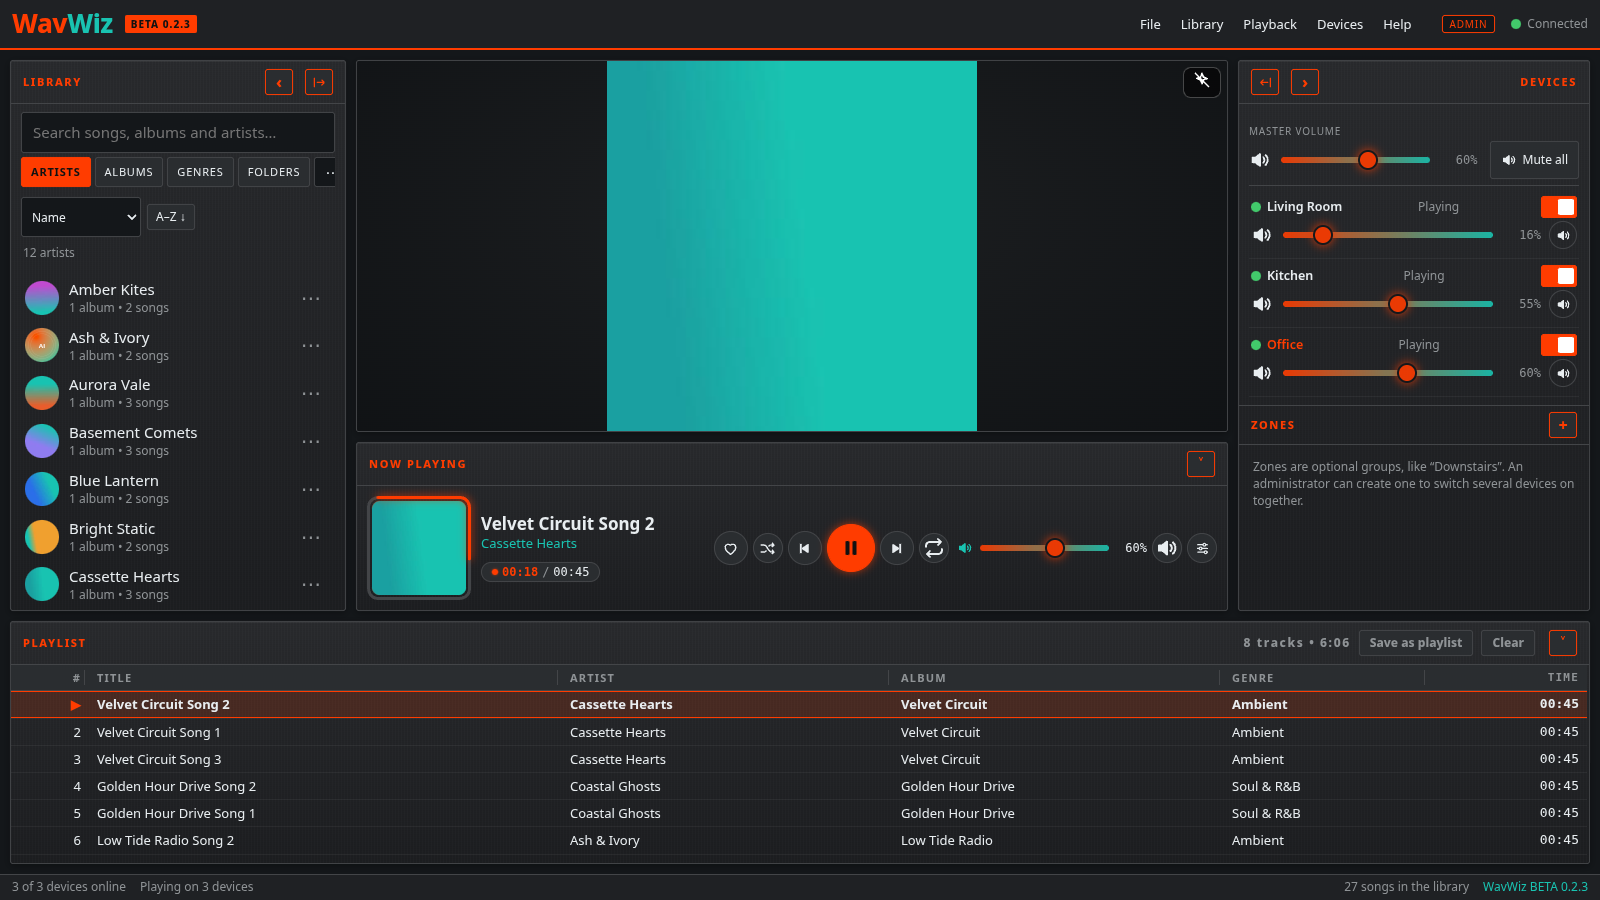
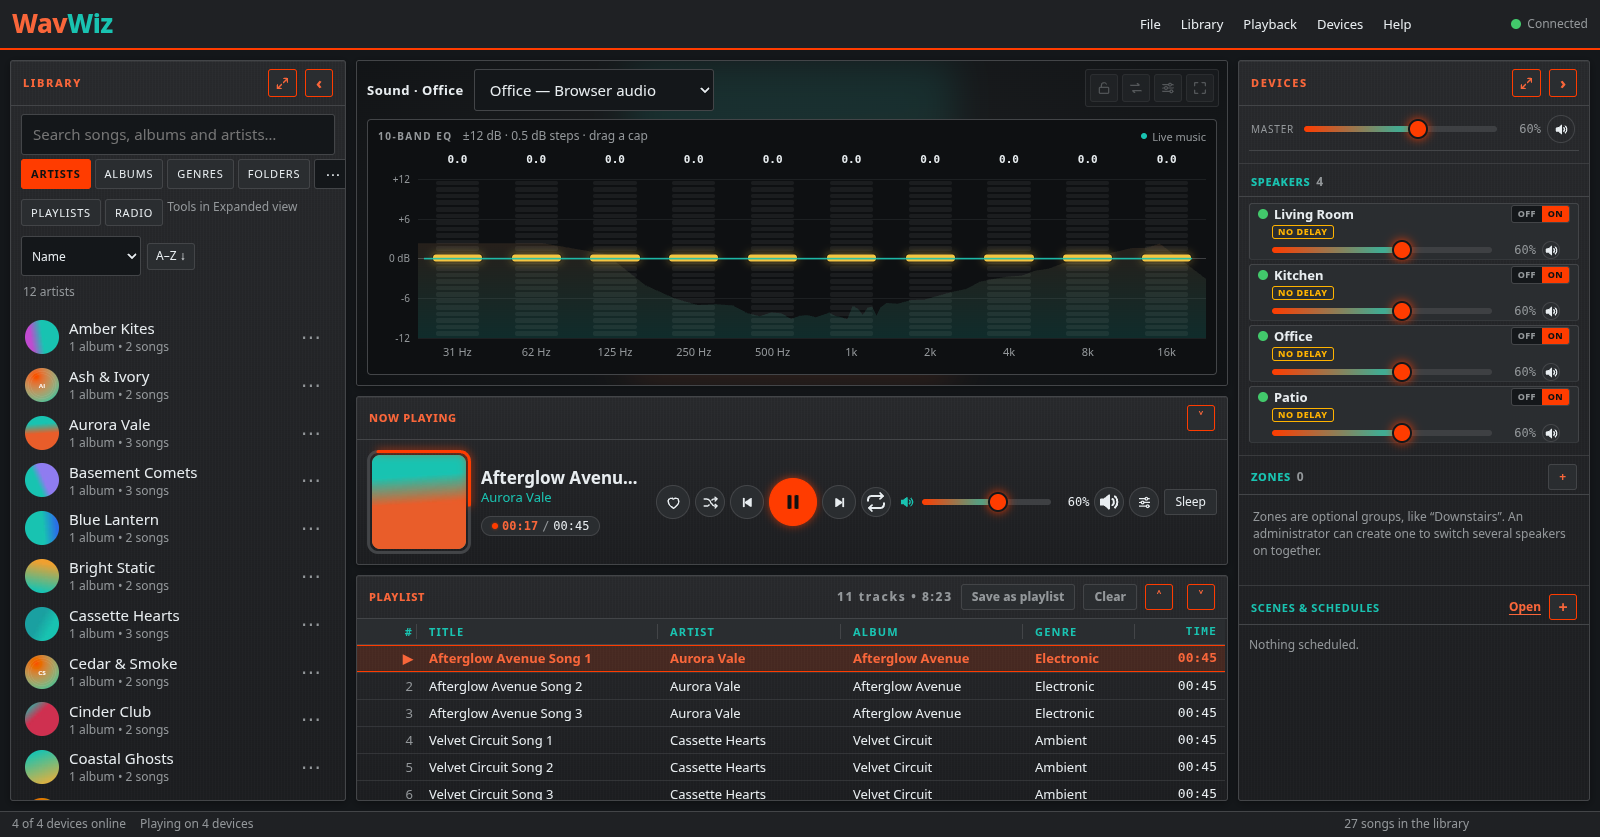
0.3.5 docs: CHANGELOG, README and FIRST-RUN for expanded Devices, inline scenes, sleep button, Display size in Theme, max-volume marker; new main and phone screenshots

diff --git a/README.md b/README.md
@@ -20,7 +20,7 @@ WavWiz turns an always-on Windows PC into a whole-home music server. Your librar
 
 ## Screenshots
 
-![WavWiz main window with the library, Now Playing, three connected devices and the playlist](docs/img/wavwiz-main.png)
+![WavWiz main window with the library, the 10-band EQ, Now Playing, four connected devices and the playlist](docs/img/wavwiz-main.png)
 
 | Device settings, opened in place | Sound (EQ) with Lock EQ | Settings > Appearance > Theme |
 | --- | --- | --- |
@@ -32,7 +32,7 @@ WavWiz turns an always-on Windows PC into a whole-home music server. Your librar
 
 | Phone (browser) | Add a music folder |
 | --- | --- |
-| ![WavWiz Now Playing on a phone](docs/img/wavwiz-phone.png) | ![Settings, Music folders with a network folder being added](docs/img/wavwiz-settings-library.png) |
+| ![WavWiz Devices on a phone, with four devices playing in sync](docs/img/wavwiz-phone.png) | ![Settings, Music folders with a network folder being added](docs/img/wavwiz-settings-library.png) |
 
 **Visualizers**
 
@@ -55,7 +55,7 @@ WavWiz turns an always-on Windows PC into a whole-home music server. Your librar
 ## Features
 
 - **Whole-home sync** — Every device plays the same stream against a shared clock, and WavWiz keeps correcting each device's drift: Windows PCs with WavWiz Player, plus phones, tablets, and Macs in the browser. Every browser that opens WavWiz joins as a speaker by itself. No sync measurements are published yet.
-- **Devices, zones and scenes** — Master volume and Mute all, plus volume, Mute and on/off for every speaker. In the Expanded Devices view, each device card opens its settings in place: sound check, exact delay, Sound / EQ, audio output, connection, Rename, Set as reference, and Forget. The normal Devices list stays compact; tap a device's name to jump to its card. Expanded, the Devices panel shows three columns: **Zones** (optional groups such as “Downstairs”, each with one volume bar, Mute and an on/off switch for all its speakers), **Speakers** (grouped by zone, with an Unassigned group and **+ Add to zone**), and **Scenes & Schedules**. Revoking a device removes it everywhere at once; it has to pair again.
+- **Devices, zones and scenes** — Master volume and Mute all, plus volume, Mute and on/off for every speaker. In the Expanded Devices view, each device card opens its settings in place: sound check, exact delay, Sound / EQ, audio output, connection, Rename, Set as reference, and Forget. The normal Devices list stays compact; tap a device's name to jump to its card. Expanded, the Devices panel shows three columns: **Scenes & Schedules** (create and edit scenes, schedules and alarms right there), **Zones** (optional groups such as “Downstairs”, each with one volume bar, Mute and an OFF | ON switch for all its speakers), and **Speakers** on the right (grouped by zone, with an Unassigned group and **+ Add to zone**). Revoking a device removes it everywhere at once; it has to pair again.
 - **Per-device delay (0–1000 ms)** — Live slider and number box so Bluetooth speakers and Wi-Fi PCs line up instead of echoing between devices; on PCs the delay is kept per audio output. **Calibrate speakers** measures it with the microphone of a WavWiz Player PC (USB, headset or built-in mic; recommended), or with your phone as the microphone (scan a QR code; a mic-only page, needs the one-time HTTPS setup), or by ear. The music pauses while it measures. *Beta: phone-mic calibration on iPhone may not show the microphone prompt yet; use the PC mic for now.*
 - **AirPlay, built in** — The server appears as the AirPlay speaker **WavWiz – Whole House**. Send audio from apps on iPhone, iPad, or Mac; it plays on every device in sync, with title and artwork on Now Playing.
 - **Optional Spotify Connect** — Off by default. Turn it on in Settings → Network; WavWiz appears in Spotify’s device list and streams to every device. **Requires your own Spotify Premium account.** Unofficial open-source client (librespot); not made or endorsed by Spotify.
@@ -68,9 +68,9 @@ WavWiz turns an always-on Windows PC into a whole-home music server. Your librar
 - **Control without playing** — Any phone, browser or PC can control the music without playing it: just leave its speaker switched off.
 - **Mini player** — WavWiz Player opens a small window with cover, title, seek bar, previous / play / next, mute and volume. Pin it on top, make it slim, or make it see-through (solid again on hover).
 - **Playlist drag and drop** — Reorder songs (Ctrl/Shift multi-select, Ctrl+Z to undo) and drop songs, albums or folders from the Library right where you want them.
-- **Max-volume lock** — An admin can cap any device's volume and lock it; nothing raises it above the cap (master, zones, scenes, alarms, the API).
+- **Max-volume lock** — An admin can cap any device's volume and lock it; nothing raises it above the cap (master, zones, scenes, alarms, the API). A capped bar shows a marker at the limit.
 - **Add to home screen** — On a phone or tablet, add WavWiz to the home screen to open it like an app, full screen with its own icon.
-- **Alarms (beta), sleep timer, crossfade** — One Scenes & Schedules window: alarms with fade-in, snooze and skip, a sleep timer with fade-out, and optional crossfade (off by default; never inside an album).
+- **Alarms (beta), sleep timer, crossfade** — Alarms with fade-in, snooze and skip in the Scenes & Schedules column of Expanded Devices, a Sleep button in Now Playing with fade-out, and optional crossfade (off by default; never inside an album).
 - **Backup and restore** — One file with settings, playlists, scenes, alarms, EQ presets and device names; no passwords or certificates in it.
 - **Admin mode** — File → Sign in as admin… unlocks house settings on any paired device without signing out; admin-only items are read-only (never hidden) for everyone else.
 - **Privacy-first** — Local network only by default. Optional private remote access via Tailscale (you bring your own Tailscale setup); WavWiz does not open ports to the public internet for you.

diff --git a/docs/FIRST-RUN.md b/docs/FIRST-RUN.md
@@ -87,7 +87,7 @@ Menus do things, Settings sets things:
 - **Devices:** Devices & zones, Scenes & Schedules…, Calibrate speakers…, Phone role… (on a phone), Use as remote only, Pair a player…, Away-from-home…
 - **Help:** Getting started, Diagnostics, What's new, About WavWiz…
 
-**Settings** has seven tabs: **General** (including Backup), **Appearance**, **Playback** (crossfade), **Devices** (sub-tabs **Players & access** and **Calibration**), **Library**, **Network** and **Jukebox**. Use the search box in the header to jump to an option. Changes save right away (a **Saved ✓** appears next to them); every section has **Reset this section**. Appearance has its own sub-tabs, in a row right under the main tabs: **Theme**, **Visualizer**, **EQ**, **Now Playing** and **Display size**. On a large screen Settings grows to about 1200 px wide, so the previews have room. The live previews on Theme, Visualizer, EQ and Now Playing stay pinned at the top while you scroll; Display size has no preview because the whole app changes as you pick. Appearance choices apply to the device you are using.
+**Settings** has seven tabs: **General** (including Backup), **Appearance**, **Playback** (crossfade), **Devices** (sub-tabs **Players & access** and **Calibration**), **Library**, **Network** and **Jukebox**. Use the search box in the header to jump to an option. Changes save right away (a **Saved ✓** appears next to them); every section has **Reset this section**. Appearance has its own sub-tabs, in a row right under the main tabs: **Theme** (which includes **Display size**), **Visualizer**, **EQ** and **Now Playing**. Settings and every other window have the same fixed width as the center panel; content scrolls inside. The live previews on Theme, Visualizer, EQ and Now Playing stay pinned at the top while you scroll. Appearance choices apply to the device you are using.
 
 **Lock EQ:** the Sound (EQ) window and **Appearance → EQ** have a **Lock EQ** checkbox. When it is checked, the EQ sliders ignore the mouse wheel, dragging, clicks and keys, so scrolling the page never changes the sound. Each device remembers it (off by default; unlocked, the wheel fine-tunes a slider in 0.5 dB steps). **Appearance → EQ** shows this speaker's real EQ and always opens locked; uncheck it to make changes, which are saved to the speaker's own preset.
 
@@ -97,7 +97,7 @@ Want just the playback controls in a small window? Choose **Devices → Mini pla
 
 ### Max-volume lock
 
-An admin can give any device a **max volume** in its Settings and lock it. While it is locked, nothing raises that device above the cap: not the master volume, a zone, a scene, schedule or alarm, the mini player or the API. Turning it down always works. A small padlock shows by the device's volume bar.
+An admin can give any device a **max volume** in its Settings and lock it. While it is locked, nothing raises that device above the cap: not the master volume, a zone, a scene, schedule or alarm, the mini player or the API. Turning it down always works. Setting a cap locks it. A capped bar shows a marker at the limit and stops there.
 
 ### Jukebox (beta)
 
@@ -105,7 +105,7 @@ An admin can give any device a **max volume** in its Settings and lock it. While
 
 ### Alarms, sleep timer and crossfade
 
-**Devices → Scenes & Schedules…** holds scenes, schedules and alarms (beta) in one window, with the server's clock in the header and a **Sleep timer** button. Crossfade is in **Settings → Playback** (0–12 s, off by default).
+**Devices → Scenes & Schedules…** opens Expanded Devices, where the Scenes & Schedules column holds scenes, schedules and alarms (beta); create and edit them right there. The **Sleep** button is in Now Playing. Crossfade is in **Settings → Playback** (0–12 s, off by default).
 
 ### Backup
 

diff --git a/CHANGELOG.md b/CHANGELOG.md
@@ -12,6 +12,22 @@ WavWiz is currently in **beta**. Breaking changes and rough edges are expected.
 
 Nothing yet.
 
+## [0.3.5] - 2026-10-14 (beta)
+- Expanded Devices: Scenes & Schedules, Zones and Speakers side by side, with Speakers anchored on the right where they sit in the normal view. A speaker card opens in place to change its output, max volume, delay, EQ and name.
+- Scenes, schedules and alarms are created and edited right in the Scenes & Schedules column; the Devices menu items open it (the separate window remains only on phones).
+- Device cards: name with a labeled OFF | ON switch, one row of status tags, and the volume bar with mute. Zones use the same card.
+- Max-volume lock fixed: setting a cap now locks it, and a capped bar shows a marker at the limit and stops there.
+- Sleep timer is a button in Now Playing.
+- Fewer popups: Playlists and Radio are Library tabs; CD ripper, Tag & cover fix and Tidy up library are tabs in the expanded Library; many small windows became inline. Every remaining window has the same fixed width.
+- The playlist stays on the right while the Library is expanded, so songs can be dropped exactly where you want; the drop label shows the dragged count.
+- Library Genres and Years tiles use artwork from the active theme colors with legible counts, at a smaller fixed tile size; years are grouped by decade.
+- Display size moved into Settings > Appearance > Theme.
+- One consistent look: shared window chrome, headings, tabs, buttons, labeled ON/OFF switches and tags in every theme, including the playlist table. The Pepecoin theme uses brand-kit colors only (copper replaces yellow and red).
+- Jukebox: starts with an empty playlist and restores yours when it stops; plays random filler from the library until a guest picks (guest picks always come first); guests see how many plays they have left; the big screen scales to fill any TV, including 4K.
+- WavWiz Player tray menu: Start Jukebox… / Stop Jukebox….
+- Mini player: a clearly labeled transparency control (slider, Settings and the Player right-click menu) with a live preview.
+- Not yet confirmed on real hardware: tray Jukebox, mini player window transparency, 4K in TV built-in browsers, and the plays-left counter with several phones at once.
+
 ## [0.3.4] - 2026-10-13 (beta)
 - Installable web app: home-screen icon and iOS/Android home-screen support, a full web app manifest (192 px and maskable icons), and a versioned service worker that never caches the API or live connections; a new version replaces the old one.
 - Playlist numbers 10 and up no longer wrap.
